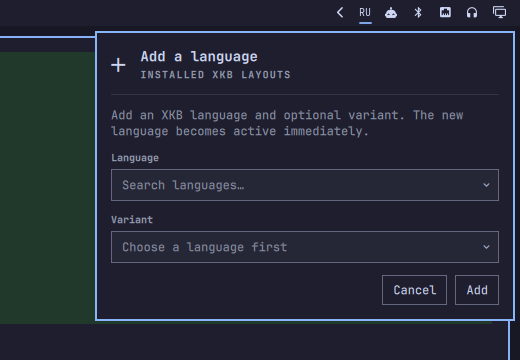
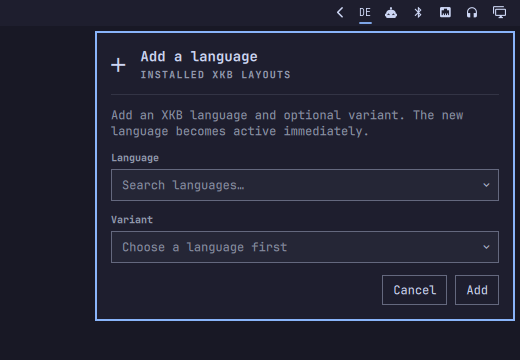
Refresh screenshots on a clean workspace

Changed region(s): [[0.0, 0.0917, 0.9846, 1.0]]

diff --git a/demo/README.md b/demo/README.md
@@ -1,6 +1,6 @@
 # Screenshot harness
 
-`capture.sh` renders the installed plugin in four stock Quattro themes and restores the previous theme through a shell trap. Its dedicated IPC target can only navigate among panel views; it cannot invoke Add, Apply, Remove, or any keyboard helper action.
+`capture.sh` renders the installed plugin in four stock Quattro themes on a temporary empty workspace. A shell trap restores both the previous workspace and theme. Its dedicated IPC target can only navigate among panel views; it cannot invoke Add, Apply, Remove, or any keyboard helper action.
 
 Run it from a live Quattro session after installing the current checkout:
 
@@ -8,4 +8,4 @@ Run it from a live Quattro session after installing the current checkout:
 ./demo/capture.sh
 ```
 
-The harness captures only the rightmost 520 pixels of the focused monitor, including the language label, tray context, and anchored panel. Output replaces the four optimized PNGs in `docs/screenshots/`. Layout names come from the current read-only plugin state; the harness never rewrites them.
+The harness selects an unused workspace from 10–99, verifies that it contains no application windows, and captures only the rightmost 520 pixels of the focused monitor. This keeps the wallpaper, language label, tray context, and anchored panel while excluding unrelated windows. Output replaces the four optimized PNGs in `docs/screenshots/`. Layout names come from the current read-only plugin state; the harness never rewrites them.
